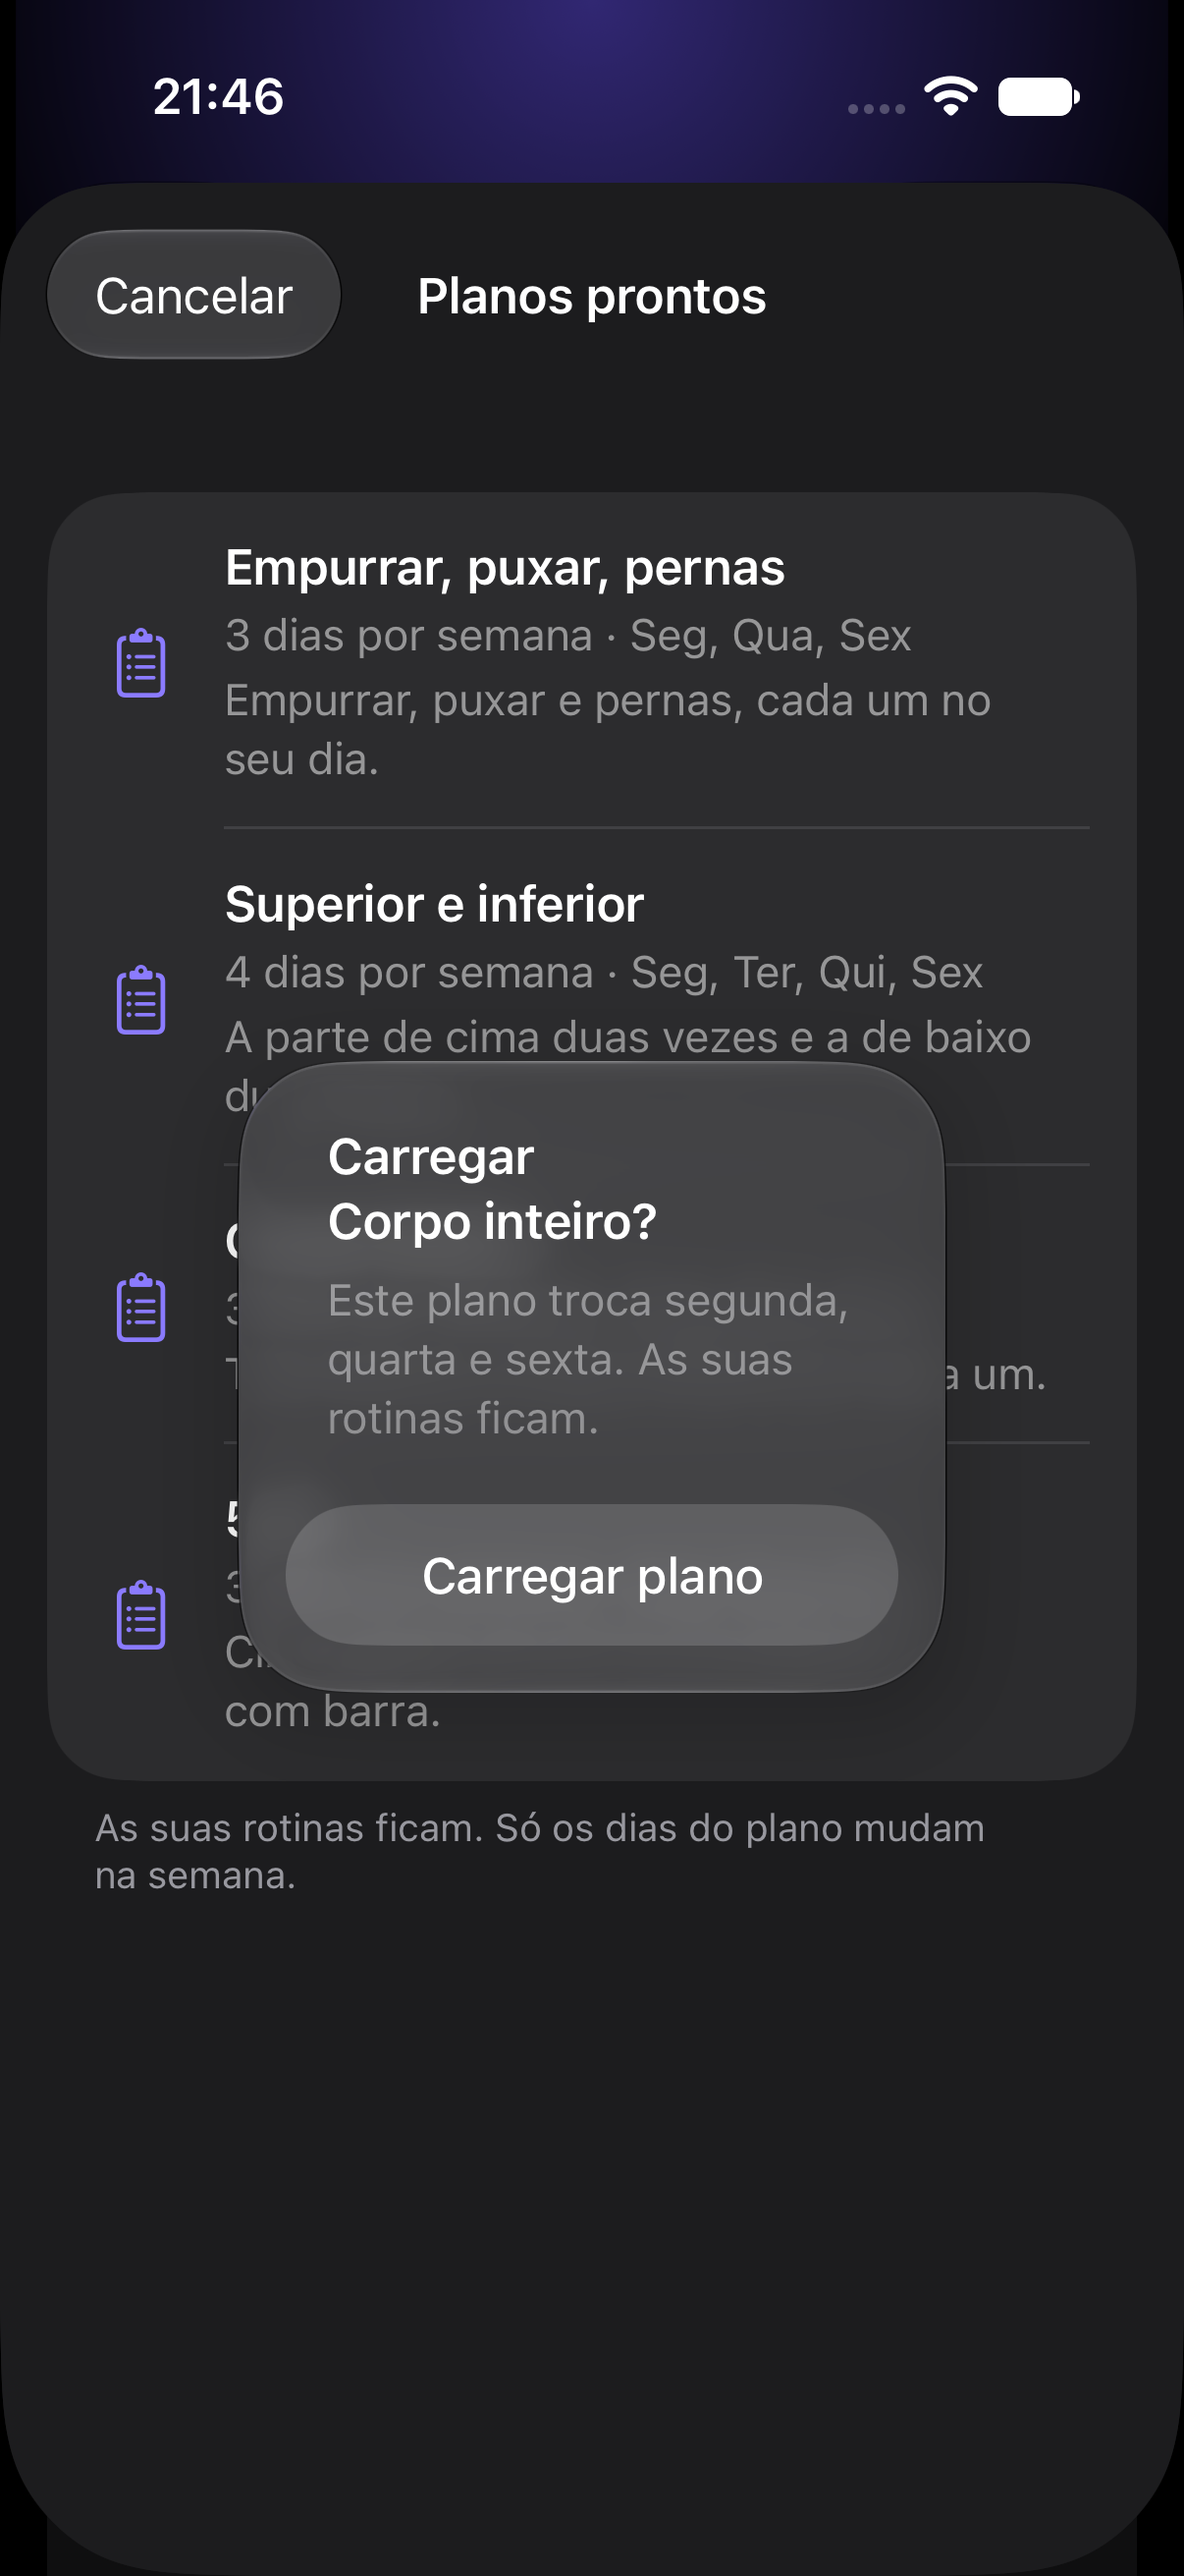
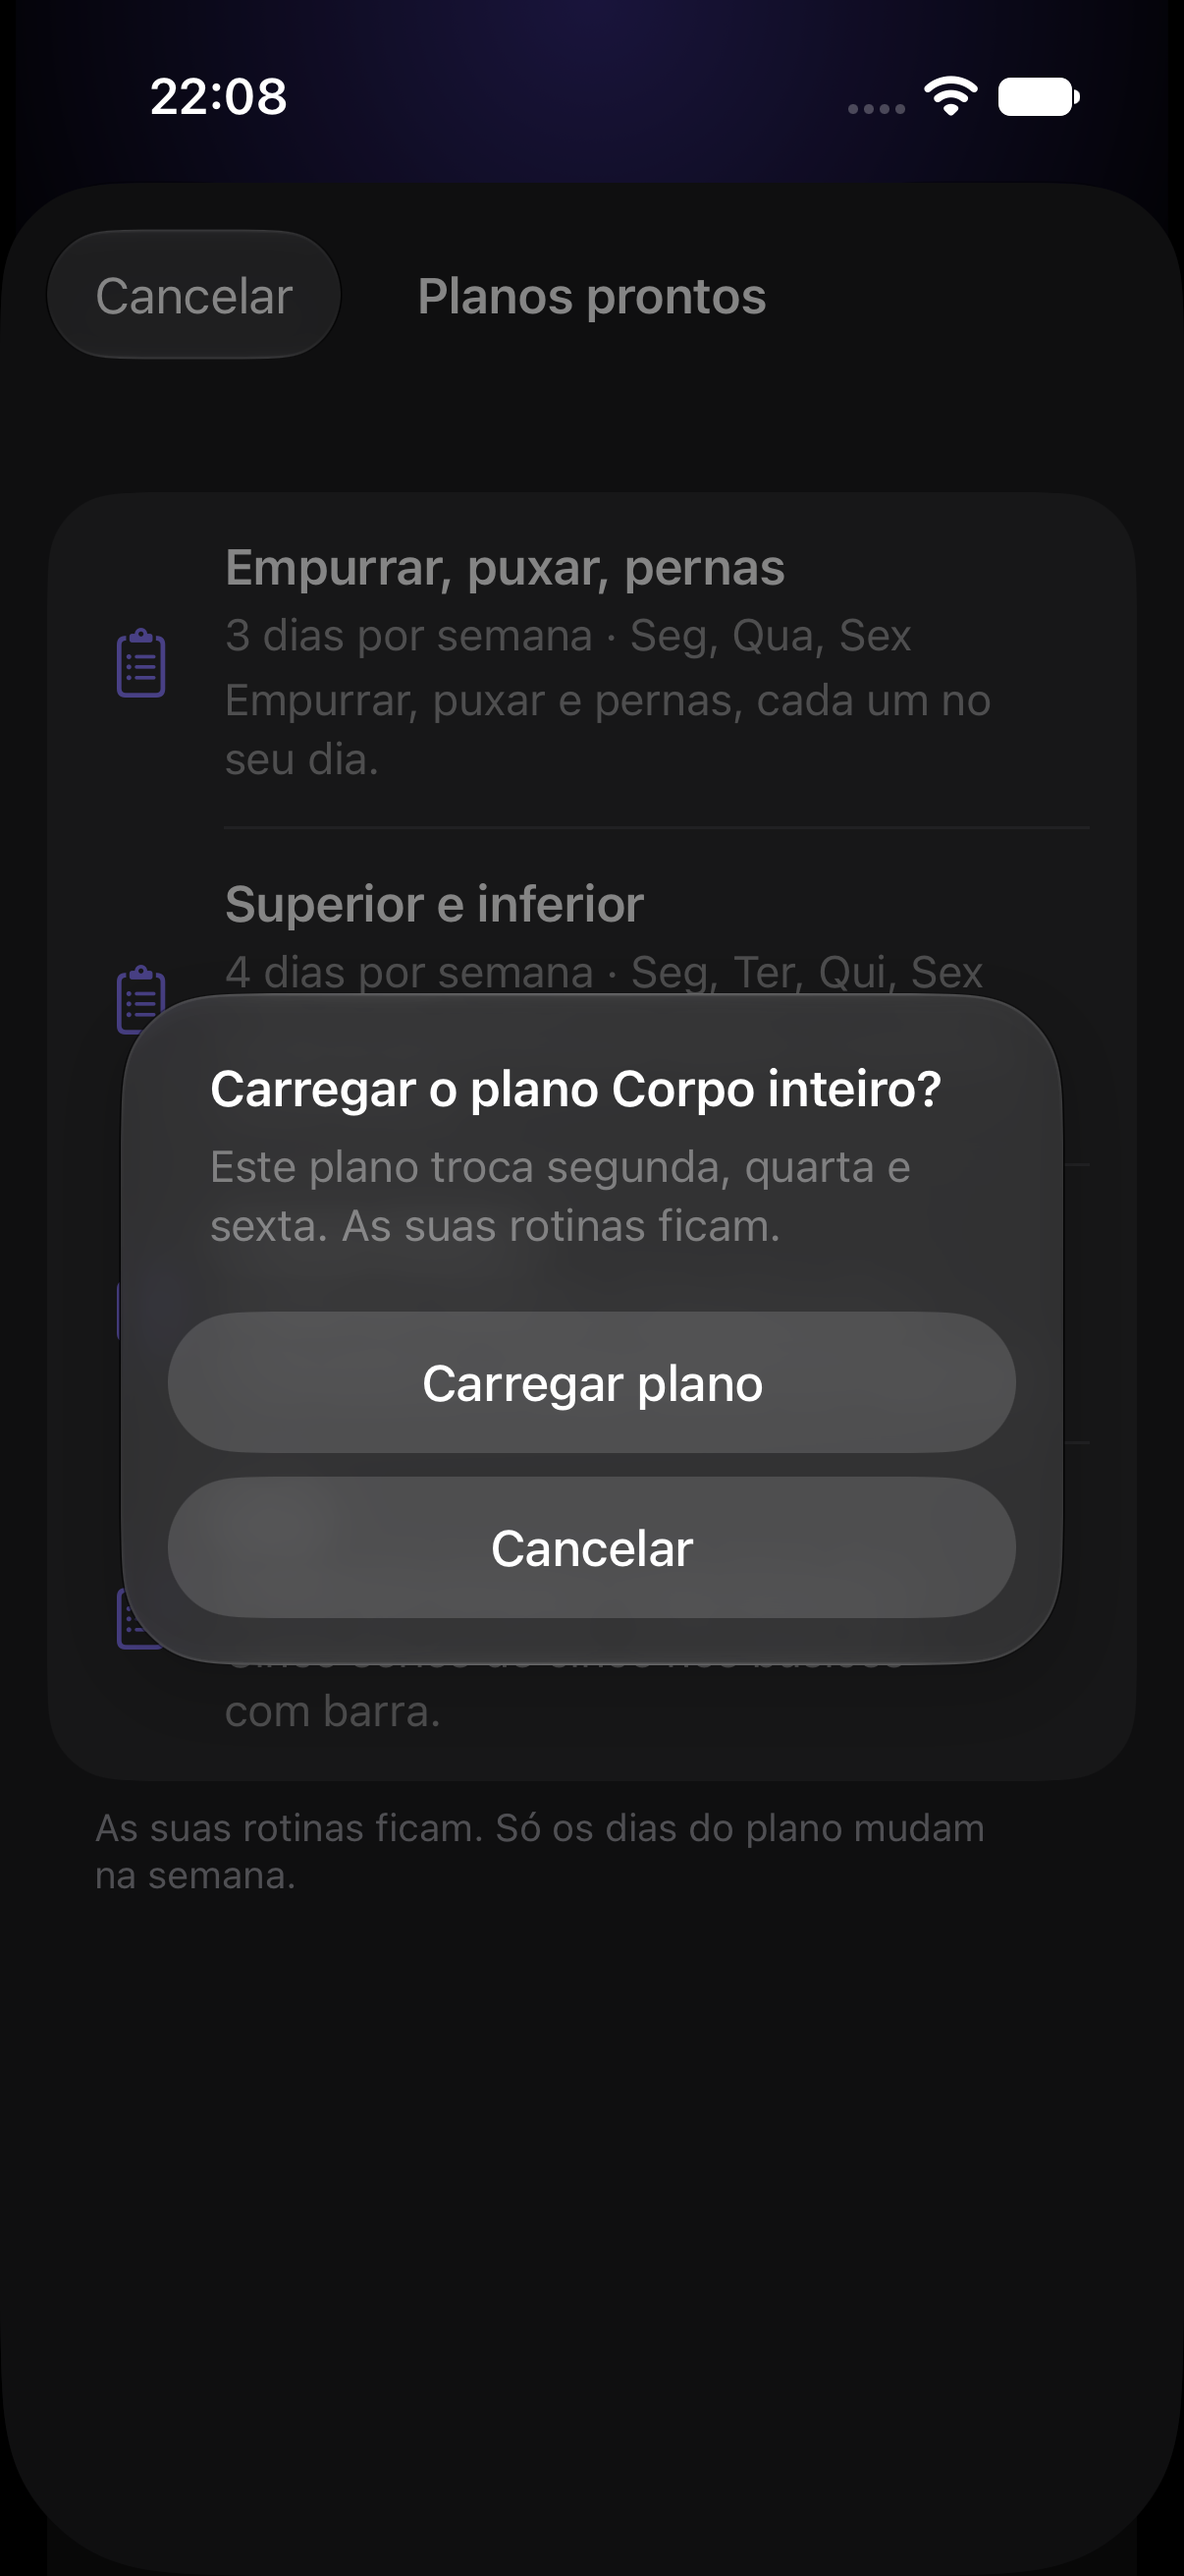
O aviso dos planos prontos com "Cancelar" e o anúncio depois de fechar
Os achados do QA do PR #119:
- o aviso de um plano que troca dias vira um alerta da Apple, com
  "Cancelar" e "Carregar plano" sempre à vista, também em AX5 (o
  confirmationDialog no iPhone escondia o "Cancelar");
- o anúncio do VoiceOver sai 0,7 s depois de a tela fechar, para a troca
  de foco não cortar a fala, com um teste no modelo;
- os textos ficam "Carregar o plano %@?" e "Plano %@ carregado".

Prints refeitos: 06-aviso.png e o novo 10-aviso-ax5.png.

diff --git a/apple/HexGym/Plan/StarterPlansView.swift b/apple/HexGym/Plan/StarterPlansView.swift
@@ -8,18 +8,21 @@
 // trocar, então o plano entra no primeiro toque.
 //
 // O StarterPlansSheet é o item "Planos prontos" do menu da barra, quando já há rotinas: a mesma lista,
-// numa tela que sobe. Quando o plano troca um dia que tinha rotina, o aviso da Apple
-// (confirmationDialog) diz quais antes de aplicar ("Este plano troca segunda, quarta e sexta."), e as
-// rotinas de antes ficam. Sem dia para trocar, o plano entra no primeiro toque, como no openGym.
+// numa tela que sobe. Quando o plano troca um dia que tinha rotina, o alerta da Apple diz quais antes
+// de aplicar ("Este plano troca segunda, quarta e sexta."), com "Cancelar" e "Carregar plano" sempre à
+// vista (achado 1 do QA do PR #119: o confirmationDialog no iPhone escondia o "Cancelar"), e as rotinas
+// de antes ficam. Sem dia para trocar, o plano entra no primeiro toque, como no openGym.
 //
-// Depois de carregar, o VoiceOver anuncia o plano carregado, como a mensagem do openGym.
+// Depois de carregar, o VoiceOver anuncia "Plano <nome> carregado", como a mensagem do openGym, um pouco
+// depois de a tela fechar (PlanLoadedAnnouncement).
 //
 // A regra da #71 vale aqui: o texto fica em branco e nos cinzas do sistema; a cor do tema só aparece no
 // ícone do plano, sobre o cartão do sistema, e no botão principal.
 //
 // Escolha recomendada, com a delegação do Lipe de 03/11/2026: o ícone da prancheta em cada plano, como o
 // openGym; o título no estilo de título do HexDesign e uma linha sobre o que é uma rotina embaixo dele;
-// no aviso, o "Carregar plano" e a frase de que as rotinas de antes ficam.
+// no aviso, o título "Carregar o plano <nome>?", o "Carregar plano" e a frase de que as rotinas de antes
+// ficam.
 import HexDesign
 import HexEngine
 import SwiftUI
@@ -75,9 +78,11 @@ struct StarterPlansView: View {
     guard loading == nil else { return }
     loading = plan.id
     Task {
-      if await screen.loadPlan(plan.id) { StarterPlanAnnouncement.post(screen.text, plan) }
+      let done = await screen.loadPlan(plan.id)
       await loaded()
       loading = nil
+      // A tela vazia dá lugar à semana, e o foco muda: o anúncio sai depois.
+      if done { StarterPlanAnnouncement.post(screen.text, plan) }
     }
   }
 }
@@ -115,9 +120,9 @@ struct StarterPlansSheet: View {
           Button("Cancel") { dismiss() }
         }
       }
-      .confirmationDialog(confirmTitle, isPresented: confirmingShown, titleVisibility: .visible, presenting: confirming) { plan in
-        Button("Load plan") { load(plan) }
+      .alert(confirmTitle, isPresented: confirmingShown, presenting: confirming) { plan in
         Button("Cancel", role: .cancel) {}
+        Button("Load plan") { load(plan) }
       } message: { plan in
         Text(verbatim: [screen.model?.warning(forPlan: plan.id) ?? "", AppText.text("Your routines stay.", locale: screen.text.locale)]
           .joined(separator: " "))
@@ -128,7 +133,7 @@ struct StarterPlansSheet: View {
 
   private var confirmTitle: Text {
     guard let confirming else { return Text(verbatim: "") }
-    return Text("Load \(confirming.name)?")
+    return Text(verbatim: screen.text.loadTitle(confirming.name))
   }
 
   private var confirmingShown: Binding<Bool> {
@@ -152,8 +157,9 @@ struct StarterPlansSheet: View {
       await loaded()
       loading = nil
       if done {
-        StarterPlanAnnouncement.post(screen.text, plan)
         dismiss()
+        // Depois de a tela fechar, para a troca de foco não cortar a fala.
+        StarterPlanAnnouncement.post(screen.text, plan)
       }
     }
   }
@@ -216,10 +222,10 @@ struct StarterPlanButton: View {
   }
 }
 
-// "Empurrar, puxar, pernas carregado", para o VoiceOver, como a mensagem do openGym.
+// "Plano Empurrar, puxar, pernas carregado", para o VoiceOver, como a mensagem do openGym, com o atraso
+// do PlanLoadedAnnouncement.
 enum StarterPlanAnnouncement {
   @MainActor static func post(_ text: WeekPlanText, _ plan: StarterPlanRow) {
-    let format = AppText.text("%@ loaded", locale: text.locale)
-    AccessibilityNotification.Announcement(String(format: format, locale: text.locale, plan.name)).post()
+    PlanLoadedAnnouncement.schedule(text.loaded(plan.name)) { AccessibilityNotification.Announcement($0).post() }
   }
 }

diff --git a/apple/HexGym/Plan/WeekPlanModel.swift b/apple/HexGym/Plan/WeekPlanModel.swift
@@ -38,7 +38,7 @@ nonisolated struct WeekPlanText: Sendable {
   private let shortDays, fullDays, sentenceDays: [String]
   let rest: String
   let restDay: String
-  private let oneDay, manyDays, changesFormat: String
+  private let oneDay, manyDays, changesFormat, loadedFormat, loadTitleFormat: String
   private let names, abouts: [String: String]
   let routines: RoutineEditorText
 
@@ -62,6 +62,8 @@ nonisolated struct WeekPlanText: Sendable {
     oneDay = AppText.text("1 day per week", locale: locale)
     manyDays = AppText.text("%lld days per week", locale: locale)
     changesFormat = AppText.text("This plan changes %@.", locale: locale)
+    loadedFormat = AppText.text("%@ plan loaded", locale: locale)
+    loadTitleFormat = AppText.text("Load the %@ plan?", locale: locale)
     // Os nomes e as descrições do PLAN_COPY do sheets.jsx, no catálogo do app.
     names = [
       "ppl": AppText.text("Push / Pull / Legs", locale: locale),
@@ -89,6 +91,16 @@ nonisolated struct WeekPlanText: Sendable {
   // "Este plano troca segunda, quarta e sexta."
   func changes(_ days: [Int]) -> String {
     String(format: changesFormat, locale: locale, list(days.map { sentenceDays[$0] }))
+  }
+
+  // "Plano Empurrar, puxar, pernas carregado", o anúncio do VoiceOver.
+  func loaded(_ planName: String) -> String {
+    String(format: loadedFormat, locale: locale, planName)
+  }
+
+  // "Carregar o plano Corpo inteiro?", o título do aviso.
+  func loadTitle(_ planName: String) -> String {
+    String(format: loadTitleFormat, locale: locale, planName)
   }
 
   func daysPerWeek(_ count: Int) -> String {
@@ -268,6 +280,23 @@ nonisolated struct WeekPlanModel: Sendable {
 
   func planName(_ id: String) -> String {
     text.planName(id) ?? id
+  }
+}
+
+// O anúncio de um plano carregado ("Plano Empurrar, puxar, pernas carregado") sai só depois de um
+// atraso, quando a tela dos planos já fechou e o foco do VoiceOver já assentou na aba: um anúncio feito
+// junto com a troca de foco pode ser cortado por ela (nota 4 do QA do PR #119). A tela passa quem fala
+// (o AccessibilityNotification.Announcement), e o teste, quem escuta.
+nonisolated enum PlanLoadedAnnouncement {
+  static let delay = Duration.milliseconds(700)
+
+  @MainActor @discardableResult
+  static func schedule(_ message: String, after delay: Duration = PlanLoadedAnnouncement.delay,
+                       post: @escaping @MainActor (String) -> Void) -> Task<Void, Never> {
+    Task { @MainActor in
+      do { try await Task.sleep(for: delay) } catch { return }
+      post(message)
+    }
   }
 }
 

diff --git a/apple/HexGymTests/WeekPlanModelTests.swift b/apple/HexGymTests/WeekPlanModelTests.swift
@@ -3,7 +3,9 @@
 // curtos e por extenso; um dia sem rotina diz "Descanso", na linha e no VoiceOver; com o motor de
 // verdade, o plano PPL deixa segunda, quarta e sexta com as rotinas dele e os outros dias como estavam;
 // e o aviso de um plano pronto diz só os dias que ele troca de fato, conferido contra o que o motor faz
-// em cada um dos quatro planos (e a tabela dos planos, contra as rotinas que o motor cria).
+// em cada um dos quatro planos (e a tabela dos planos, contra as rotinas que o motor cria). E o da nota 4
+// do QA do PR #119: o anúncio "Plano <nome> carregado" sai só depois de um atraso, quando a tela dos
+// planos já fechou, para a troca de foco não cortar a fala do VoiceOver.
 //
 // O alvo roda dentro do app (TEST_HOST) e lê os textos do catálogo do app.
 //
@@ -154,5 +156,28 @@ import Testing
         }
       }
     }
+  }
+
+  @Test func theLoadedAnnouncementWaitsUntilTheSheetHasClosed() async throws {  // nota 4 do QA do PR #119
+    let pt = WeekPlanText(locale: portuguese), en = WeekPlanText(locale: english)
+    #expect(pt.loaded("Empurrar, puxar, pernas") == "Plano Empurrar, puxar, pernas carregado")
+    #expect(en.loaded("Push / Pull / Legs") == "Push / Pull / Legs plan loaded")
+    // O título do aviso, pelo mesmo catálogo.
+    #expect(pt.loadTitle("Corpo inteiro") == "Carregar o plano Corpo inteiro?")
+    #expect(en.loadTitle("Full Body") == "Load the Full Body plan?")
+    // A fala não sai na hora: só depois do atraso, que dá tempo de a tela fechar e o foco assentar.
+    #expect(PlanLoadedAnnouncement.delay >= .milliseconds(500))
+    let spoken = Spoken()
+    let clock = ContinuousClock(), start = clock.now
+    let task = PlanLoadedAnnouncement.schedule("Plano 5×5 carregado") { spoken.lines.append($0) }
+    #expect(spoken.lines.isEmpty, "o anúncio não sai antes de a tela fechar")
+    await task.value
+    #expect(spoken.lines == ["Plano 5×5 carregado"])
+    #expect(clock.now - start >= PlanLoadedAnnouncement.delay)
+  }
+
+  // O que o VoiceOver teria dito, no lugar do anúncio de verdade.
+  @MainActor final class Spoken {
+    var lines: [String] = []
   }
 }
